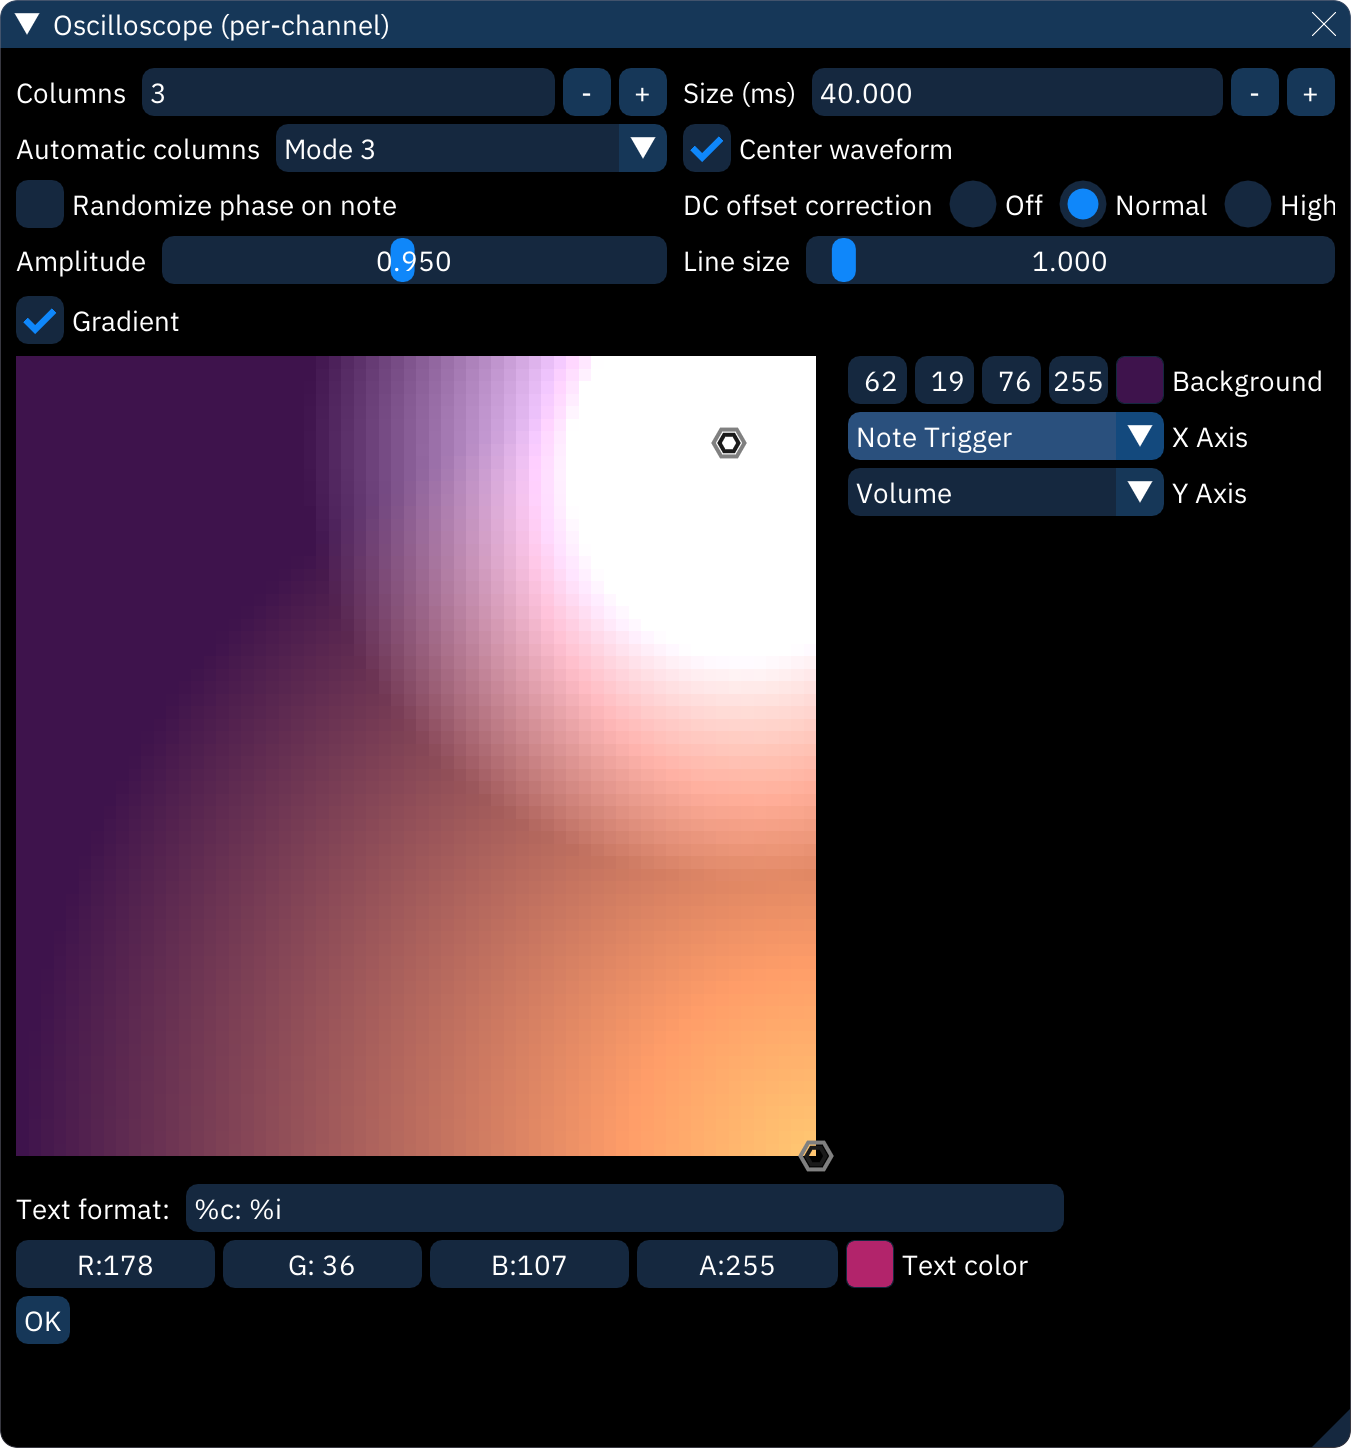
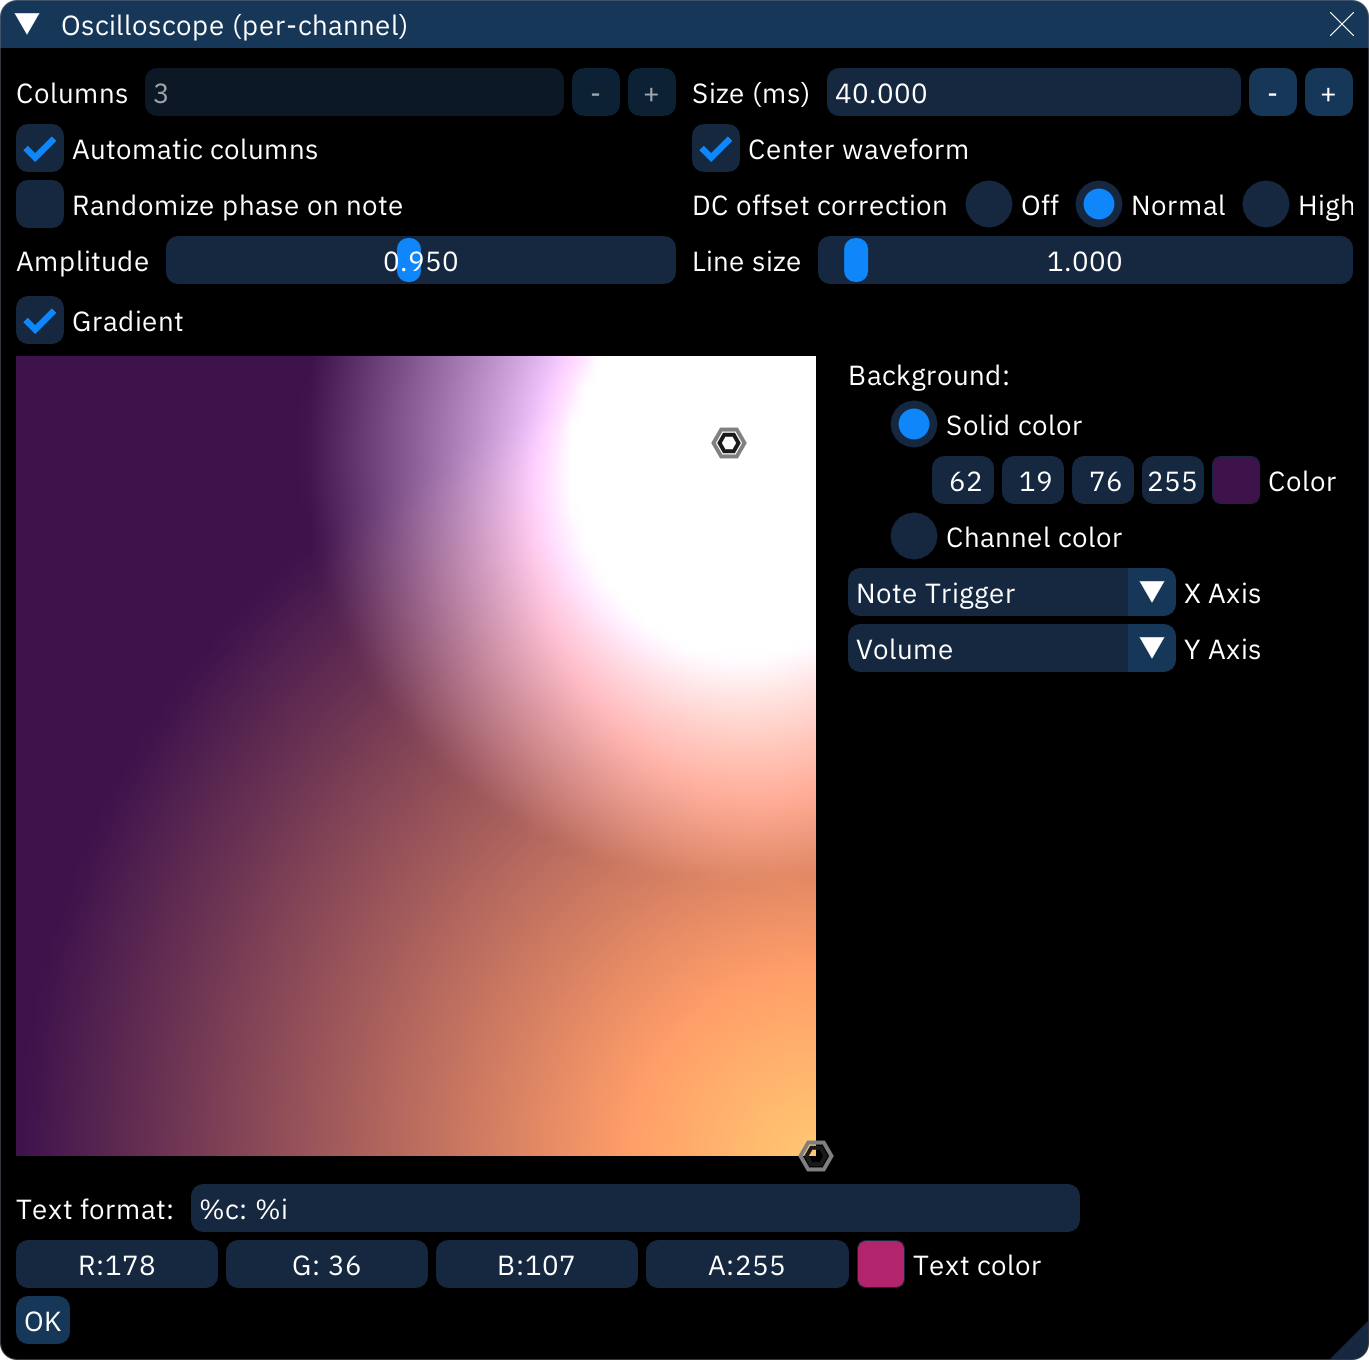
General documentation work.
Bug fixes and improvements! (Heh.)

Changed region(s): [[0.0, 0.0, 0.9948, 0.9882]]

diff --git a/doc/8-advanced/chanosc.md b/doc/8-advanced/chanosc.md
@@ -8,22 +8,17 @@ right-clicking the view will display the configuration view shown above:
 - **Columns**: sets the amount of columns for the oscilloscope views.
 - **Size (ms)**: sets how much of a channel's output is captured for the oscilloscope view.
 - **Automatic columns**: sets the number of columns based on the number of channels.
-  - **Off**: use the Columns setting.
-  - **Mode 1**: always fewer columns than rows.
-  - **Mode 2**: bias slightly toward more columns.
-  - **Mode 3**: always more columns than rows.
 - **Center waveform**: when enabled, the displayed waveforms will be centered horizontally using an auto-correlation algorithm.
 - **Randomize phase on note**
 - **DC offset correction**: controls the algorithm that centers the waveform vertically.
   - **Off**
-  - **Normal**
+  - **Normal**: default.
   - **High**
 - **Amplitude**: scales amplitude for all oscilloscope views.
 - **Line size**: controls line thickness.
 - **Gradient**: this allows you to use a gradient for determining the waveforms' colors instead of a single color. see the gradient section for more information.
-  - if this option is off, a color selector will be displayed. right-click on it for some options:
-    - select between the square selector and the color wheel selector.
-    - **Alpha bar**: display an opacity bar.
+  - if this option is off, a single color selector will be displayed.
+  - if this option is on, see the "gradient" section below.
 - **Text format**: this allows you to display some text on each oscilloscope view. the following codes may be used:
   - `%c`: channel name
   - `%C`: channel short name
@@ -48,9 +43,7 @@ click on OK to return to the main view.
 
 ![oscilloscope per-channel gradient configuration view](chanosc-gradient.png)
 
-when enabling the Gradient setting, a gradient view is displayed in where circular "points" can be placed.
-each point adds a color spot.
-the resulting image is used to look up the waveform's color as determined by each axis.
+when enabling the Gradient setting, a gradient view is displayed in which circular "points" can be placed. each point adds a color spot. the resulting image is used to look up the waveform's color as determined by each axis.
 
 - right-click to place a point.
 - left-click on a point to change its color:
@@ -60,6 +53,8 @@ the resulting image is used to look up the waveform's color as determined by eac
 - middle-click on a point to delete it.
 
 - **Background**: sets the gradient's background color.
+  - **Solid color**: chooses a color to apply to all oscilloscopes.
+  - **Channel color**: automatically uses the color of the channel the oscilloscope belongs to.
 - **X Axis**: determines what the horizontal axis maps to.
 - **Y Axis**: determines what the vertical axis maps to. these can be set to the following:
   - **None (0%)**: always left or bottom

diff --git a/doc/5-wave/README.md b/doc/5-wave/README.md
@@ -3,19 +3,21 @@
 wavetable chips, in context of Furnace, are sound generators that operate on extremely short, looping sample streams. by extremely short, usually no more than 256 samples.
 this amount of space is nowhere near enough to store an actual sampled sound, but it allows certain amount of freedom to define a waveform shape.
 
-each chip has its own maximum size, shown in the following table. if a larger wave is defined for these chips, it will be scaled to fit within the constraints of the chips. some of these don't work well with the wavetable synthesizer (described below); these systems are marked in the "notes" column.
+each chip has its own maximum size, shown in the following table. if a larger wave is defined for these chips, it will be scaled to fit within the constraints of the chips. 
+
+some of these chips force a phase reset when changing waveforms, which can cause clicking and popping sounds. this also means they don't work very well with the [wavetable synthesizer](../4-instrument/wavesynth.md). these systems are marked in the "notes" column.
 
 system        | width | height | notes
 --------------|------:|:-------|:------
 Bubble System |    32 | 16     |
-Game Boy      |    32 | 16     | phase reset on waveform change (clicking)
+Game Boy      |    32 | 16     | phase reset on waveform change
 SM8521        |    32 | 16     |
 Namco WSG     |    32 | 16     | RAM only
 WonderSwan    |    32 | 16     |
 Namco 163     |  ≤240 | 16     | limits differ depending on channel count 
 SNES          |  ≤256 | 16     |
-PC Engine     |    32 | 32     | phase reset on waveform change (clicking)
-Virtual Boy   |    32 | 64     |
+PC Engine     |    32 | 32     | phase reset on waveform change
+Virtual Boy   |    32 | 64     | phase reset on all channels on waveform change
 FDS           |    64 | 64     |
 Konami SCC    |    32 | 256    |
 Seta X1-010   |   128 | 256    |
@@ -75,6 +77,8 @@ this creates a waveform by adding together a few predefined basic wave shapes.
 this creates a waveform using frequency modulation synthesis with up to four operators.
 
 you can set carrier/modulation levels, frequency multipliers, connections between operators and FM waveforms of these operators.
+
+in the connection diagram, a checkmark indicates that the row operator is modulated by the column operator. the "Out" column indicates which operators are audible. the default diagram (as shown) sets operators 1, 2, and 3 as modulators in sequence, with operator 4 as the carrier and only output.
 
 ### WaveTools
 

diff --git a/doc/1-intro/quickstart.md b/doc/1-intro/quickstart.md
@@ -139,7 +139,7 @@ if we click on the "Speed" tab at the top-right of the interface, we'll see the 
 
 ![speed tab](qs-speed.png)
 
-beneath Base Tempo is "Speed", set to 6. right now, each row takes 6 ticks to complete before moving to the next row. let's say we want things to be a little faster. play the current set of notes to hear their tempo first. then, change speed to 5; the tempo shown below "Virtual Tempo" will now read "180.00 BPM". play our notes back, and they're definitely faster... perhaps faster than desired. it's possible to get tempos in between by alternating speeds; if you're interested, check out the documentation on [speeds and grooves](../8-advanced/grooves.md) later on.
+beneath Base Tempo is "Speed", set to 6. right now, each row takes 6 ticks to complete before moving to the next row. let's say we want things to be a little faster. play the current set of notes to hear their tempo first. then, change speed to 5; the tempo shown below "Virtual Tempo" will now read "180.00 BPM". play our notes back, and they're definitely faster... perhaps faster than desired. it's possible to get tempos in between by alternating speeds; if you're interested, check out the documentation on [speeds](../2-interface/song-info.md) and [grooves](../8-advanced/grooves.md) later on.
 
 ## what about those other channels?
 

diff --git a/doc/7-systems/n163.md b/doc/7-systems/n163.md
@@ -48,8 +48,11 @@ this chip uses the [Namco 163](../4-instrument/n163.md) instrument editor.
 the following options are available in the Chip Manager window:
 
 - **Clock rate**: sets the rate at which the chip will run.
-- **Initial channel limit**: sets the number of channels that will be active. higher values reduce volume and make TDM artifacts more noticeable.
+- when loading files created in earlier versions of Furnace, there may be a warning here that the legacy channel limit doesn't equal the channel count set below.
+  - **Fix channel count**: changes "Channels" to match the track.
+  - **Give me more channels**: adjusts the track according to "Channels".
 - **Disable hissing**: remove TDM artifacts by mixing. sacrifices some accuracy!
 - **Scale frequency to wave length**: automatically adjusts note frequency to account for differing waveform lengths.
-  - if disabled, note frequencies ignore waveveform length. this is how FamiTracker behaves.
-
+  - if disabled, note frequencies ignore waveform length. this is how FamiTracker behaves.
+- **Channels**: sets the number of channels that will be active, from 1 up to 8. higher values reduce volume and make TDM artifacts more noticeable.
+ 

diff --git a/doc/7-systems/ym2610.md b/doc/7-systems/ym2610.md
@@ -136,10 +136,16 @@ CSM, or "Composite Sine Mode", involves a timer matching the frequency of the no
 
 working with CSM is beyond the scope of this documentation. for more information, see this [brief SSG-EG and CSM video tutorial](https://www.youtube.com/watch?v=IKOR0TUlnWU).
 
+## ADPCM-B
+
+when opening some older Furnace files and all DefleMask files using this chip, the ADPCM-B channel will be absent. this can be corrected by opening the chip config window and clicking the "click here to fix it." button beneath "irregular channel count detected!"
+
 ## chip config
 
 the following options are available in the Chip Manager window:
 
-- sets the rate at which the chip will run.
+- the clock rate at which the chip will run.
+- **Disable ExtCh FM macros (compatibility)**: exists for DefleMask compatibility, and should remain unchecked otherwise. only appears in extended channel 2 mode.
+- **Ins change in ExtCh 2-4 affects FB (compatibility)**: exists for DefleMask compatibility, and should remain unchecked otherwise. only appears in extended channel 2 mode.
 - **SSG Volume**: sets volume of SSG part.
 - **FM Volume**: sets volume of FM part.

diff --git a/doc/7-systems/es5506.md b/doc/7-systems/es5506.md
@@ -50,8 +50,11 @@ sample memory is split into 2MB banks, making the maximum sample length 2097024 
 
 the following options are available in the Chip Manager window:
 
-- **Initial channel limit**: sets how many channels are available for use. if reduced, output rate increases.
+- **Output rate divider**: as the chip mixes more channels, the output sample rate goes down. this selects the appropriate rate for the number of channels in use.
+  - for hardware authenticity, change this to match the number set in "Channels" below.
 - **Volume scale**: allows you to lower the overall volume to prevent clipping/distortion when using too many channels.
 - **Amiga channel volumes**: makes volume linear, from 0 to 64 (40 in hex). used in S3M, XM and IT import.
 - **Amiga-like pitch**: pretends to be an Amiga, with periodic slides. used in S3M, XM and IT import (the latter two when linear slides are disabled).
   - only effective when pitch linearity is None.
+- **Channels**: sets the number of channels that will be active, from 5 up to 32.
+  - for hardware authenticity, set "Output rate divider" above to match.

diff --git a/doc/2-interface/song-info.md b/doc/2-interface/song-info.md
@@ -40,7 +40,10 @@ the effective BPM is displayed as well, taking all settings into account.
 - set the second virtual tempo number (denominator) to 150.
 - the track will play at 200 BPM.
 - the ratio doesn't have to match BPM numbers. set the numerator to 4 and the denominator to 5, and the virtual BPM becomes 150 × 4/5 = 120.
-- another way to accomplish this with more control over the results is to use grooves. see the page on [grooves](../8-advanced/grooves.md) for details.
+- depending on the tempo and tick rate, the results may sound uneven. another way to reach a specific tempo with more control over the results is to use grooves. see the page on [grooves](../8-advanced/grooves.md) for details.
+
+**BPM**: the track's initial tempo in beats per minute.
+- note: this uses the highlight values below in calculating beats.
 
 **Highlight**: sets the pattern row highlights:
 - the first value represents the number of rows per beat.

diff --git a/doc/7-systems/dac.md b/doc/7-systems/dac.md
@@ -1,6 +1,6 @@
 # Generic PCM DAC
 
-a sample channel, with freely selectable rate, mono/stereo and bit depth settings.
+up to 128 sample channels with freely selectable rate, mono/stereo, and bit depth settings.
 
 with it, you can emulate PCM DACs found in Williams arcade boards, Sound Blasters, MSX TurboR, Atari STe, NEC PC-9801-86, among others.
 
@@ -21,3 +21,4 @@ the following options are available in the Chip Manager window:
 - **Maximum volume**: sets the max value in the volume column.
 - **Stereo**: when enabled, you may use panning effects.
 - **Interpolation**: "softens" samples played back at lower rates.
+- **Channels**: sets the number of available channels, from 1 up to 128.

diff --git a/doc/7-systems/segapcm.md b/doc/7-systems/segapcm.md
@@ -8,7 +8,7 @@ a chip used in the Sega OutRun/X/Y arcade boards. eventually the MultiPCM surpas
 
 ## 5-channel SegaPCM
 
-Furnace also has a five channel version of this chip, but it only exists for DefleMask compatibility reasons (which doesn't expose the other channels for rather arbitrary reasons).
+Furnace previously had a five channel version of this chip, but it only existed for DefleMask compatibility reasons. when opening older Furnace files and all DefleMask files, the channel count can be corrected by opening the chip config window and clicking the "click here to fix it." button beneath "irregular channel count detected!"
 
 ## effects
 

diff --git a/doc/6-sample/README.md b/doc/6-sample/README.md
@@ -65,7 +65,7 @@ due to limitations in some of those sound chips, some restrictions exist:
 - Seta/Allumer X1-010: frequency resolution is terrible in the lower end. your sample can't be longer than 131072.
 - C219: sample lengths and loop will be set to an even number, and your sample can't be longer than 131070.
 
-furthermore, many of these chips have a limited amount of sample memory. check memory usage in window > statistics.
+furthermore, many of these chips have a limited amount of sample memory. check memory usage with the Statistics window (found in the "window" menu).
 
 ## the sample editor
 

diff --git a/doc/2-interface/components.md b/doc/2-interface/components.md
@@ -30,7 +30,7 @@ sliders are used for controlling values in a quick manner by being dragged.
 
 using the scroll wheel while holding Ctrl will change the slider's value by small amounts.
 
-right-clicking or Ctrl-clicking or a slider (Command-click on macOS) will turn it into a number input field, allowing you to input precise values.
+right-clicking or Ctrl-clicking on a slider (Command-click on macOS) will turn it into a number input field, allowing you to input precise values.
 once you click away it will become a slider again.
 
 ## windows

diff --git a/doc/8-advanced/channels.md b/doc/8-advanced/channels.md
@@ -11,3 +11,5 @@ each channel has the following options:
   - note: this does **not** move channels around! it only moves the channel's pattern data.
 - **Name**: the name displayed at the top of each channel in the pattern view.
 - the next setting is "short name", which is displayed in the orders view and/or when a channel is collapsed.
+- color: selects a custom color to be used in pattern view headers and other channel indicators.
+- ![circle-of-arrows button](channels-reset.png): resets channel color to default.
